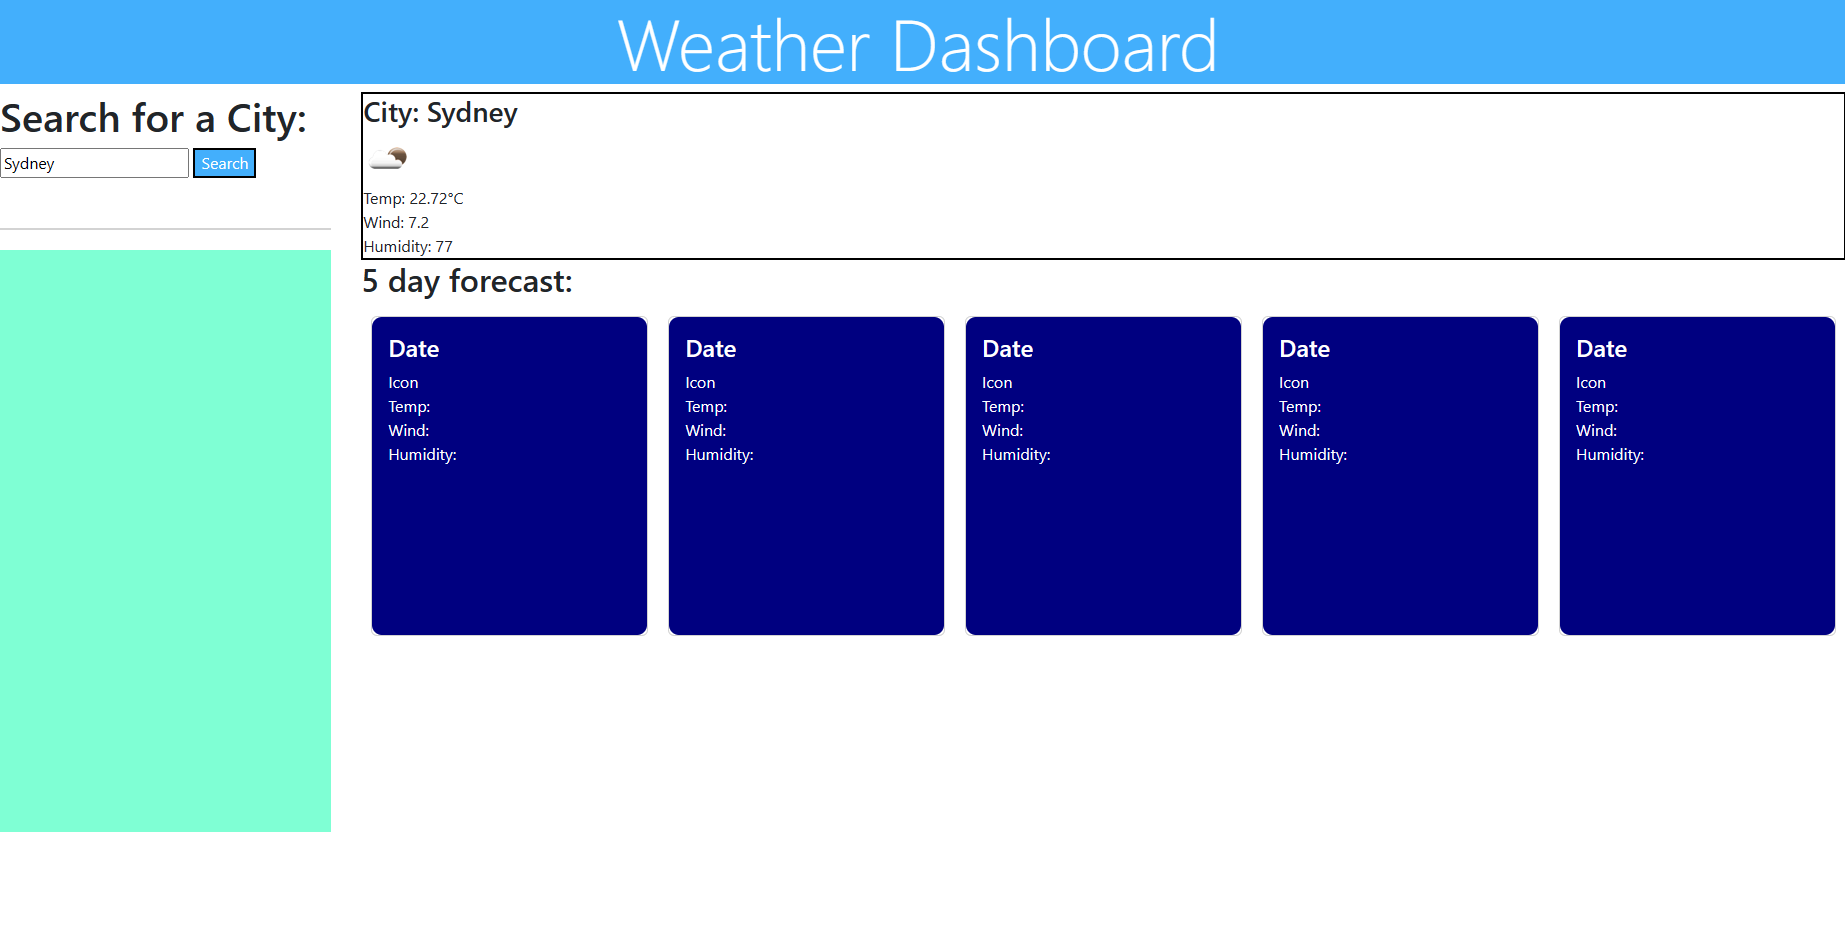
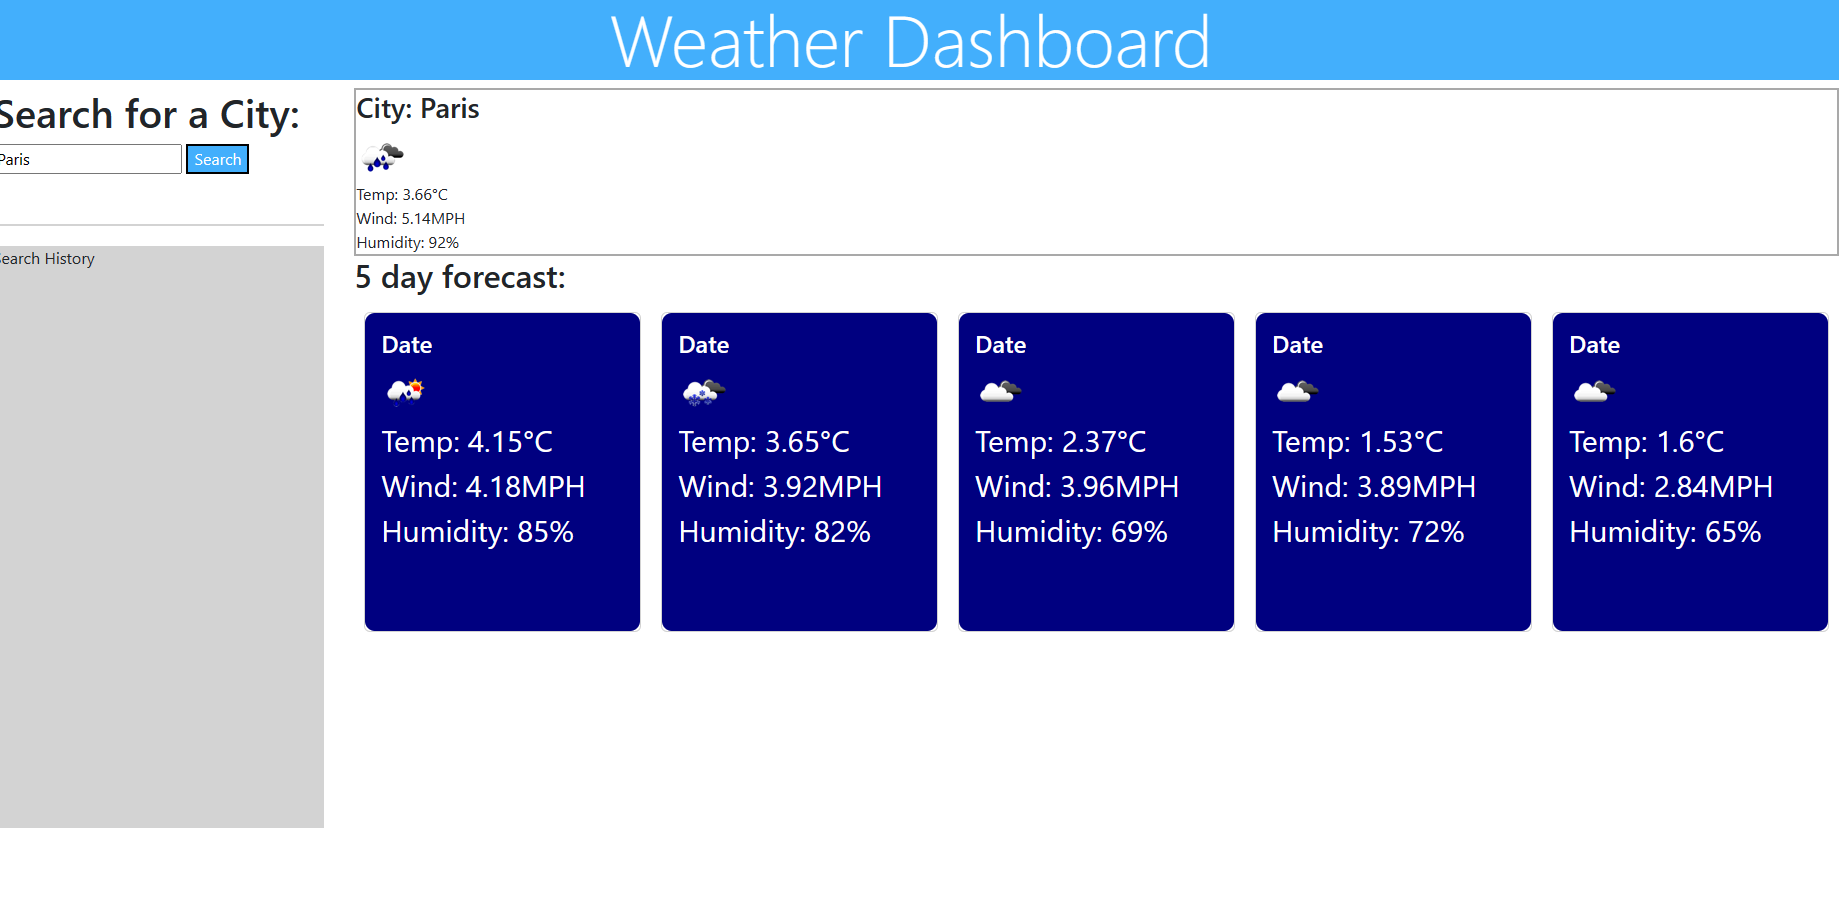
update readme and js 5 day

Changed region(s): [[0.0, 0.0, 1.0, 0.9333], [0.8369, 0.5289, 0.9608, 0.6222]]

diff --git a/index.html b/index.html
@@ -30,7 +30,7 @@
 
                       <div class="seperator"></div>
                   </div>
-                  <div class="search-history"></div>
+                  <div class="search-history"> Search History</div>
          </section>
 
           <!-- main content -->
@@ -39,7 +39,7 @@
               <section class ="cityWeather">
                    <div class ="card-body-city">
                     <h3 id = "card-city"><span id = "date"></span></h3>
-                    <img src="" id ="current-icon" alt="image of the weather">
+                    <img src="" id ="current-icon" alt="image of the weather"></img>
                     <div id = "temp">Temp:   </div> 
                     <div id = "wind"> Wind:  </div> 
                     <div id = "humidity">Humidity:   </div>    
@@ -52,52 +52,52 @@
 <!--  5 day forecast -->
         <section class ="content">
             
-            <div class="card text-white " style="width: 18rem;">
+            <div id = "card0" class="card text-white " style="width: 18rem;">
                 <div class="card-body">
-                  <h4 class="card-title">Date</h4>
-                  <div class="card0-text-icon">Icon</div> 
-                  <div class="card0-text-temp">Temp:</div> 
-                  <div class="card0-text-temp">Wind:</div> 
-                  <div class="card0-text-temp">Humidity:</div>  
+                  <h4 id="card0-title">Date</h4>
+                  <img src="" id="card0-icon" class="card-icon"></img>
+                  <div id="card0-temp">Temp:</div> 
+                  <div id="card0-wind">Wind:</div> 
+                  <div id="card0-humidity">Humidity:</div>  
                 </div>
             </div>
 
-            <div class="card text-white " style="width: 18rem;">
+            <div id= "card1" class="card text-white " style="width: 18rem;">
               <div class="card-body">
-                <h4 class="card-title">Date</h4>
-                <div class="card1-text-icon">Icon</div> 
-                  <div class="card1-text-temp">Temp:</div> 
-                  <div class="card1-text-temp">Wind:</div> 
-                  <div class="card1-text-temp">Humidity:</div> 
+                <h4 id="card1-title">Date</h4>
+                <img src="" id="card1-icon" class="card-icon"></img>
+                  <div id="card1-temp">Temp:</div> 
+                  <div id="card1-wind">Wind:</div> 
+                  <div id="card1-humidity">Humidity:</div> 
               </div>
           </div>
 
-          <div class="card text-white " style="width: 18rem;">
+          <div id= "card2" class="card text-centre text-white " style="width: 18rem;">
             <div class="card-body">
-              <h4 class="card-title">Date</h4>
-              <div class="card2-text-icon">Icon</div> 
-              <div class="card2-text-temp">Temp:</div> 
-              <div class="card2-text-temp">Wind:</div> 
-              <div class="card2-text-temp">Humidity:</div>  
+              <h4 id="card2-title">Date</h4>
+              <img src="" id="card2-icon" class="card-icon"></img>
+                <div id="card2-temp">Temp:</div> 
+                <div id="card2-wind">Wind:</div> 
+                <div id="card2-humidity">Humidity:</div> 
             </div>
         </div>
 
-        <div class="card text-white " style="width: 18rem;">
+        <div id = "card3" class="card text-white " style="width: 18rem;">
           <div class="card-body">
-            <h4 class="card-title">Date</h4>
-            <div class="card3-text-icon">Icon</div> 
-            <div class="card3-text-temp">Temp:</div> 
-            <div class="card3-text-temp">Wind:</div> 
-            <div class="card3-text-temp">Humidity:</div>  
+            <h4 id="card3-title">Date</h4>
+            <img src="" id="card3-icon" class="card-icon"></img>
+            <div id="card3-temp">Temp:</div> 
+            <div id="card3-wind">Wind:</div> 
+            <div id="card3-humidity">Humidity:</div>  
           </div>
       </div>
-      <div class="card text-white " style="width: 18rem;">
+      <div id= "card4" class ="card text-white " style="width: 18rem;">
         <div class="card-body">
-          <h4 class="card-title">Date</h4>
-          <div class="card4-text-icon">Icon</div> 
-          <div class="card4-text-temp">Temp:</div> 
-          <div class="card4-text-temp">Wind:</div> 
-          <div class="card4-text-temp">Humidity:</div>  
+          <h4 id="card4-title">Date</h4>
+          <img src="" id="card4-icon" class="card-icon"></img>
+          <div id="card4-temp">Temp:</div> 
+          <div id="card4-wind">Wind:</div> 
+          <div id="card4-humidity">Humidity:</div>  
         </div>
       </div>    
             
@@ -108,7 +108,7 @@
 
 
      </main>
-  <script src="assets/script.js"></script>  
+  <script src="assets/script.js"  defer></script>  
   <script src="https://cdn.jsdelivr.net/npm/bootstrap@5.3.0-alpha1/dist/js/bootstrap.bundle.min.js" integrity="sha384-w76AqPfDkMBDXo30jS1Sgez6pr3x5MlQ1ZAGC+nuZB+EYdgRZgiwxhTBTkF7CXvN" crossorigin="anonymous"></script>
 </body>
 </html>

diff --git a/assets/script.js b/assets/script.js
@@ -11,10 +11,10 @@ const searchButton = document.querySelector("#search-butn");
 // add event listener for when user enters city name and clicks on search button
 document.getElementById("search-butn").addEventListener("click", getCityAPI);
 
-localStorage.setItem(city);
+
 
 //gets current weather and long and lat coordinates for city
-function getCityAPI() {
+async function getCityAPI() {
     let city = searchCity.value;
     var geoURL = "https://api.openweathermap.org/data/2.5/weather?q=" + city + "&units=metric" + "&appid=" + apikey;
 
@@ -30,8 +30,9 @@ function getCityAPI() {
 
 
         getWeather(lat,lon);
+        saveSearch(searchCity);
     
-       // adds city data to page
+       // adds city weather variables and adds city data to page
         var currentIconlink = "https://openweathermap.org/img/w/"+data.weather[0].icon+".png"
         var icon = document.getElementById("current-icon")
         icon.src = currentIconlink
@@ -40,46 +41,55 @@ function getCityAPI() {
         var currentTemp = data.main.temp
         document.getElementById("temp").innerHTML = "Temp:  " +currentTemp +"°C";
         var currentWind = data.wind.speed
-        document.getElementById("wind").innerHTML = " Wind:  "+ currentWind;
+        document.getElementById("wind").innerHTML = " Wind:  "+ currentWind + "MPH";
         var currentHummidity = data.main.humidity
-        document.getElementById("humidity").innerHTML = " Humidity:  " + currentHummidity;
+        document.getElementById("humidity").innerHTML = " Humidity:  " + currentHummidity + "%";
+
+        //save search to local storage
+        function saveSearch(){
+
+          localStorage.setItem("City", city);
+        }
 
             
     })
 }
 
-function getWeather(lat,lon){
+// get the 5 day forecast weather data
+async function getWeather(lat,lon){
     
       var forecastURL = "http://api.openweathermap.org/data/2.5/forecast?lat="+ lat +"&lon="+lon+ "&units=metric" +"&appid=" + apikey;
-    fetch(forecastURL)
-    .then(function (response) {
-        return response.json();
-      })
-      .then(function (data) {
-        console.log(data)
-        console.log(forecastURL);
-        console.log()
+        fetch(forecastURL)
+           .then(function (response) {
+            return response.json();
+         })
+           .then(function (data) {
+            console.log(data)
+        
+          showForecast(data)    
+});
 
-
-        showForecast(data)
-})
-
-}
-
-function showForecast(data){
+// add the 5 day weather data to the cards
+ function showForecast(data){
     for (i = 0; i < 5; i++) {
-            var humidity = data.list[i].main.humidity
-            var icon = data.list[i].weather[0].icon
-            var wind = data.list[i].wind.speed
-            var temp = data.list[i].main.temp
-            document.getElementsByClassName("card-text-temp").innerHTML = " Temp:  " + temp;
-            console.log(wind);
-            console.log(temp);
-}
+            
+     
+      var forecastIconLink = "https://openweathermap.org/img/w/"+data.list[i].weather[0].icon+".png"
+      
+           var icon = document.querySelector("#card"+i + "-icon")
+            icon.src = forecastIconLink
+            var temp = document.querySelector("#card"+i + "-temp")
+            temp.innerHTML = "Temp: " + data.list[i].main.temp + "°C"
+            var wind = document.querySelector("#card"+i + "-wind")
+            wind.innerHTML = "Wind: " + data.list[i].wind.speed + "MPH"
+            var humidity = document.querySelector("#card"+i + "-humidity")
+            humidity.innerHTML = "Humidity: " + data.list[i].main.humidity + "%"
+        
+}}
+
 }
 
-//need to get only 1 instance of each data for 12:00:00 to use with forecast array
+//need to get only 1 instance of each data for 12:00:00 to use with forecast array as it is showing every 3 hours for each day
 // dt_txt 
 //"2023-01-17 12:00:00"
 
-//save search to local storage

diff --git a/assets/style.css b/assets/style.css
@@ -37,7 +37,7 @@ body{
  border-style: solid;
  border: 1px;
  height: 60%;
- background-color: aquamarine;
+ background-color: lightgray;
  margin-top: 20px ;
 }
 .weather{
@@ -49,7 +49,7 @@ body{
 
 .card-body-city{
   border: 2px;;
-  border-color: black;
+  border-color: darkgray;
   border-style: solid;
 
 }
@@ -64,6 +64,7 @@ body{
 }
 .card{
 margin: 10px;;
+font-size: 30px;
 }
 .card-body {
   background-color: navy;
@@ -82,4 +83,6 @@ button{
   background-color: #43AFFC;
   margin-left: 20px;
 }
+
+
 

diff --git a/README.md b/README.md
@@ -30,4 +30,11 @@ THEN I am again presented with current and future conditions for that city
 ## Screenshot
 
 The following image shows the web application's appearance and functionality:
-![Alt text](../../../../../../C:/Users/Sarah%20Mullock.000/Desktop/bootcamp/Weather_Dashboard/assets/weather.PNG)
+
+
+![This shows the weather dashboard](./assets/weather.PNG)
+
+## Link to Website
+https://smullock.github.io/Weather_Dashboard/
+
+
